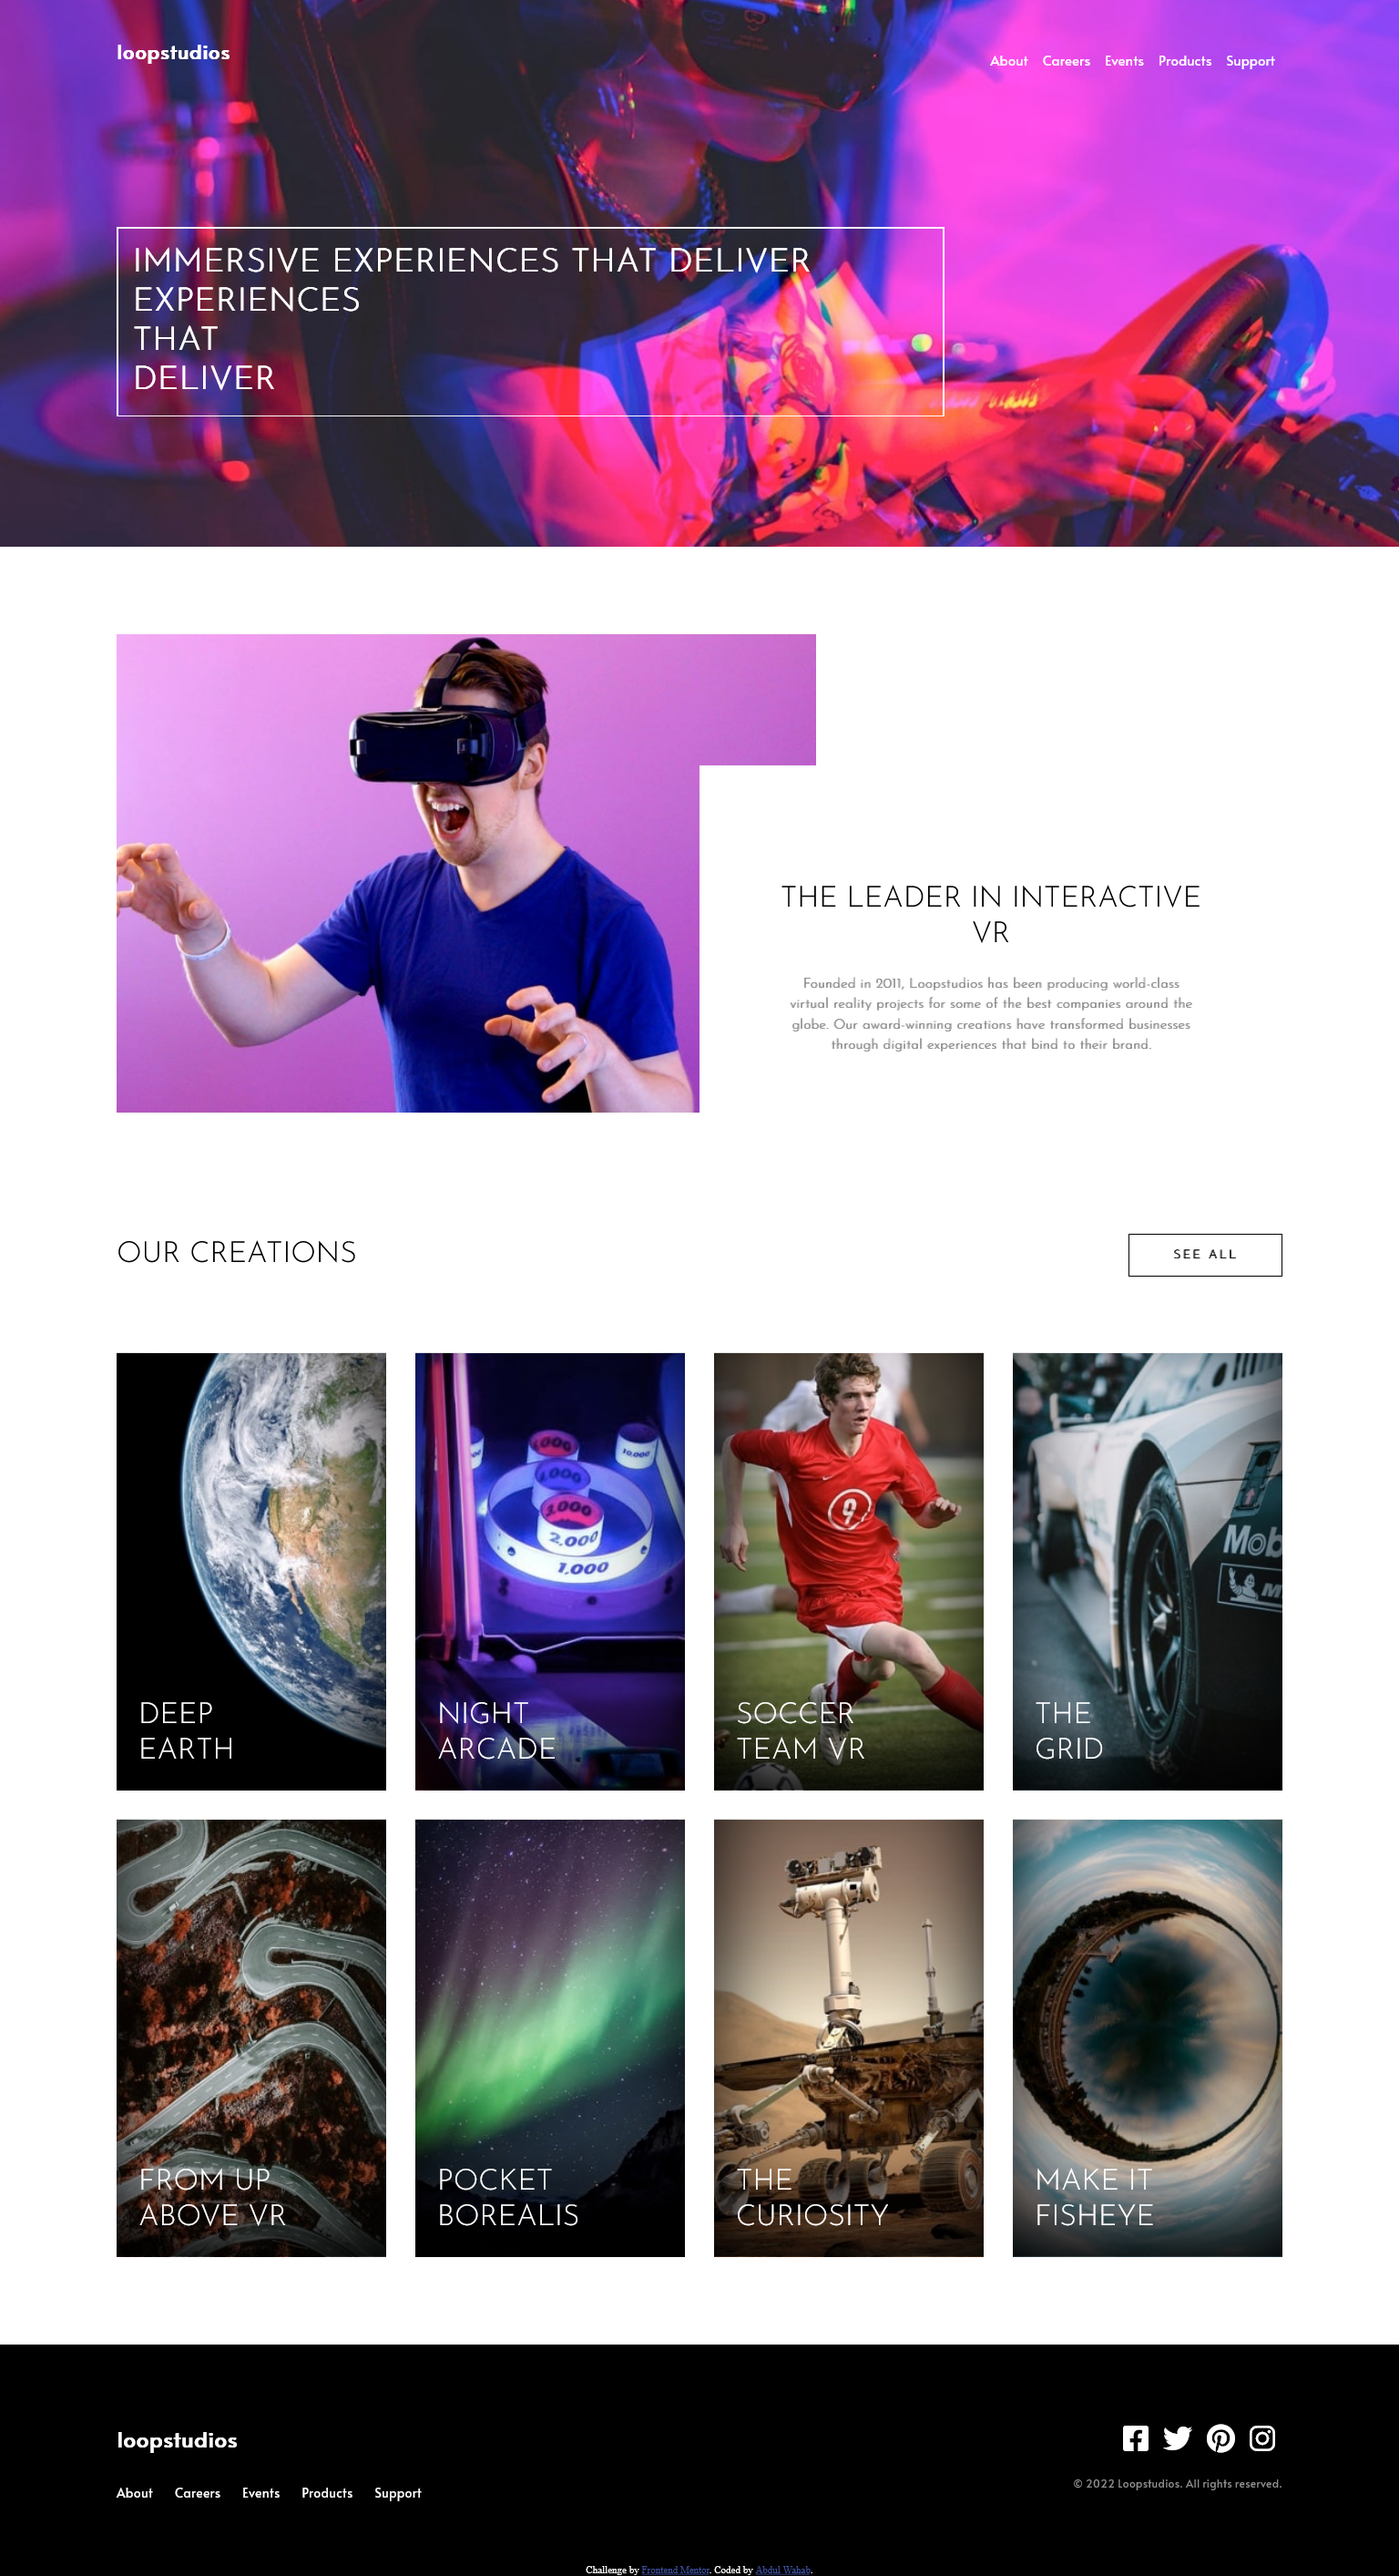
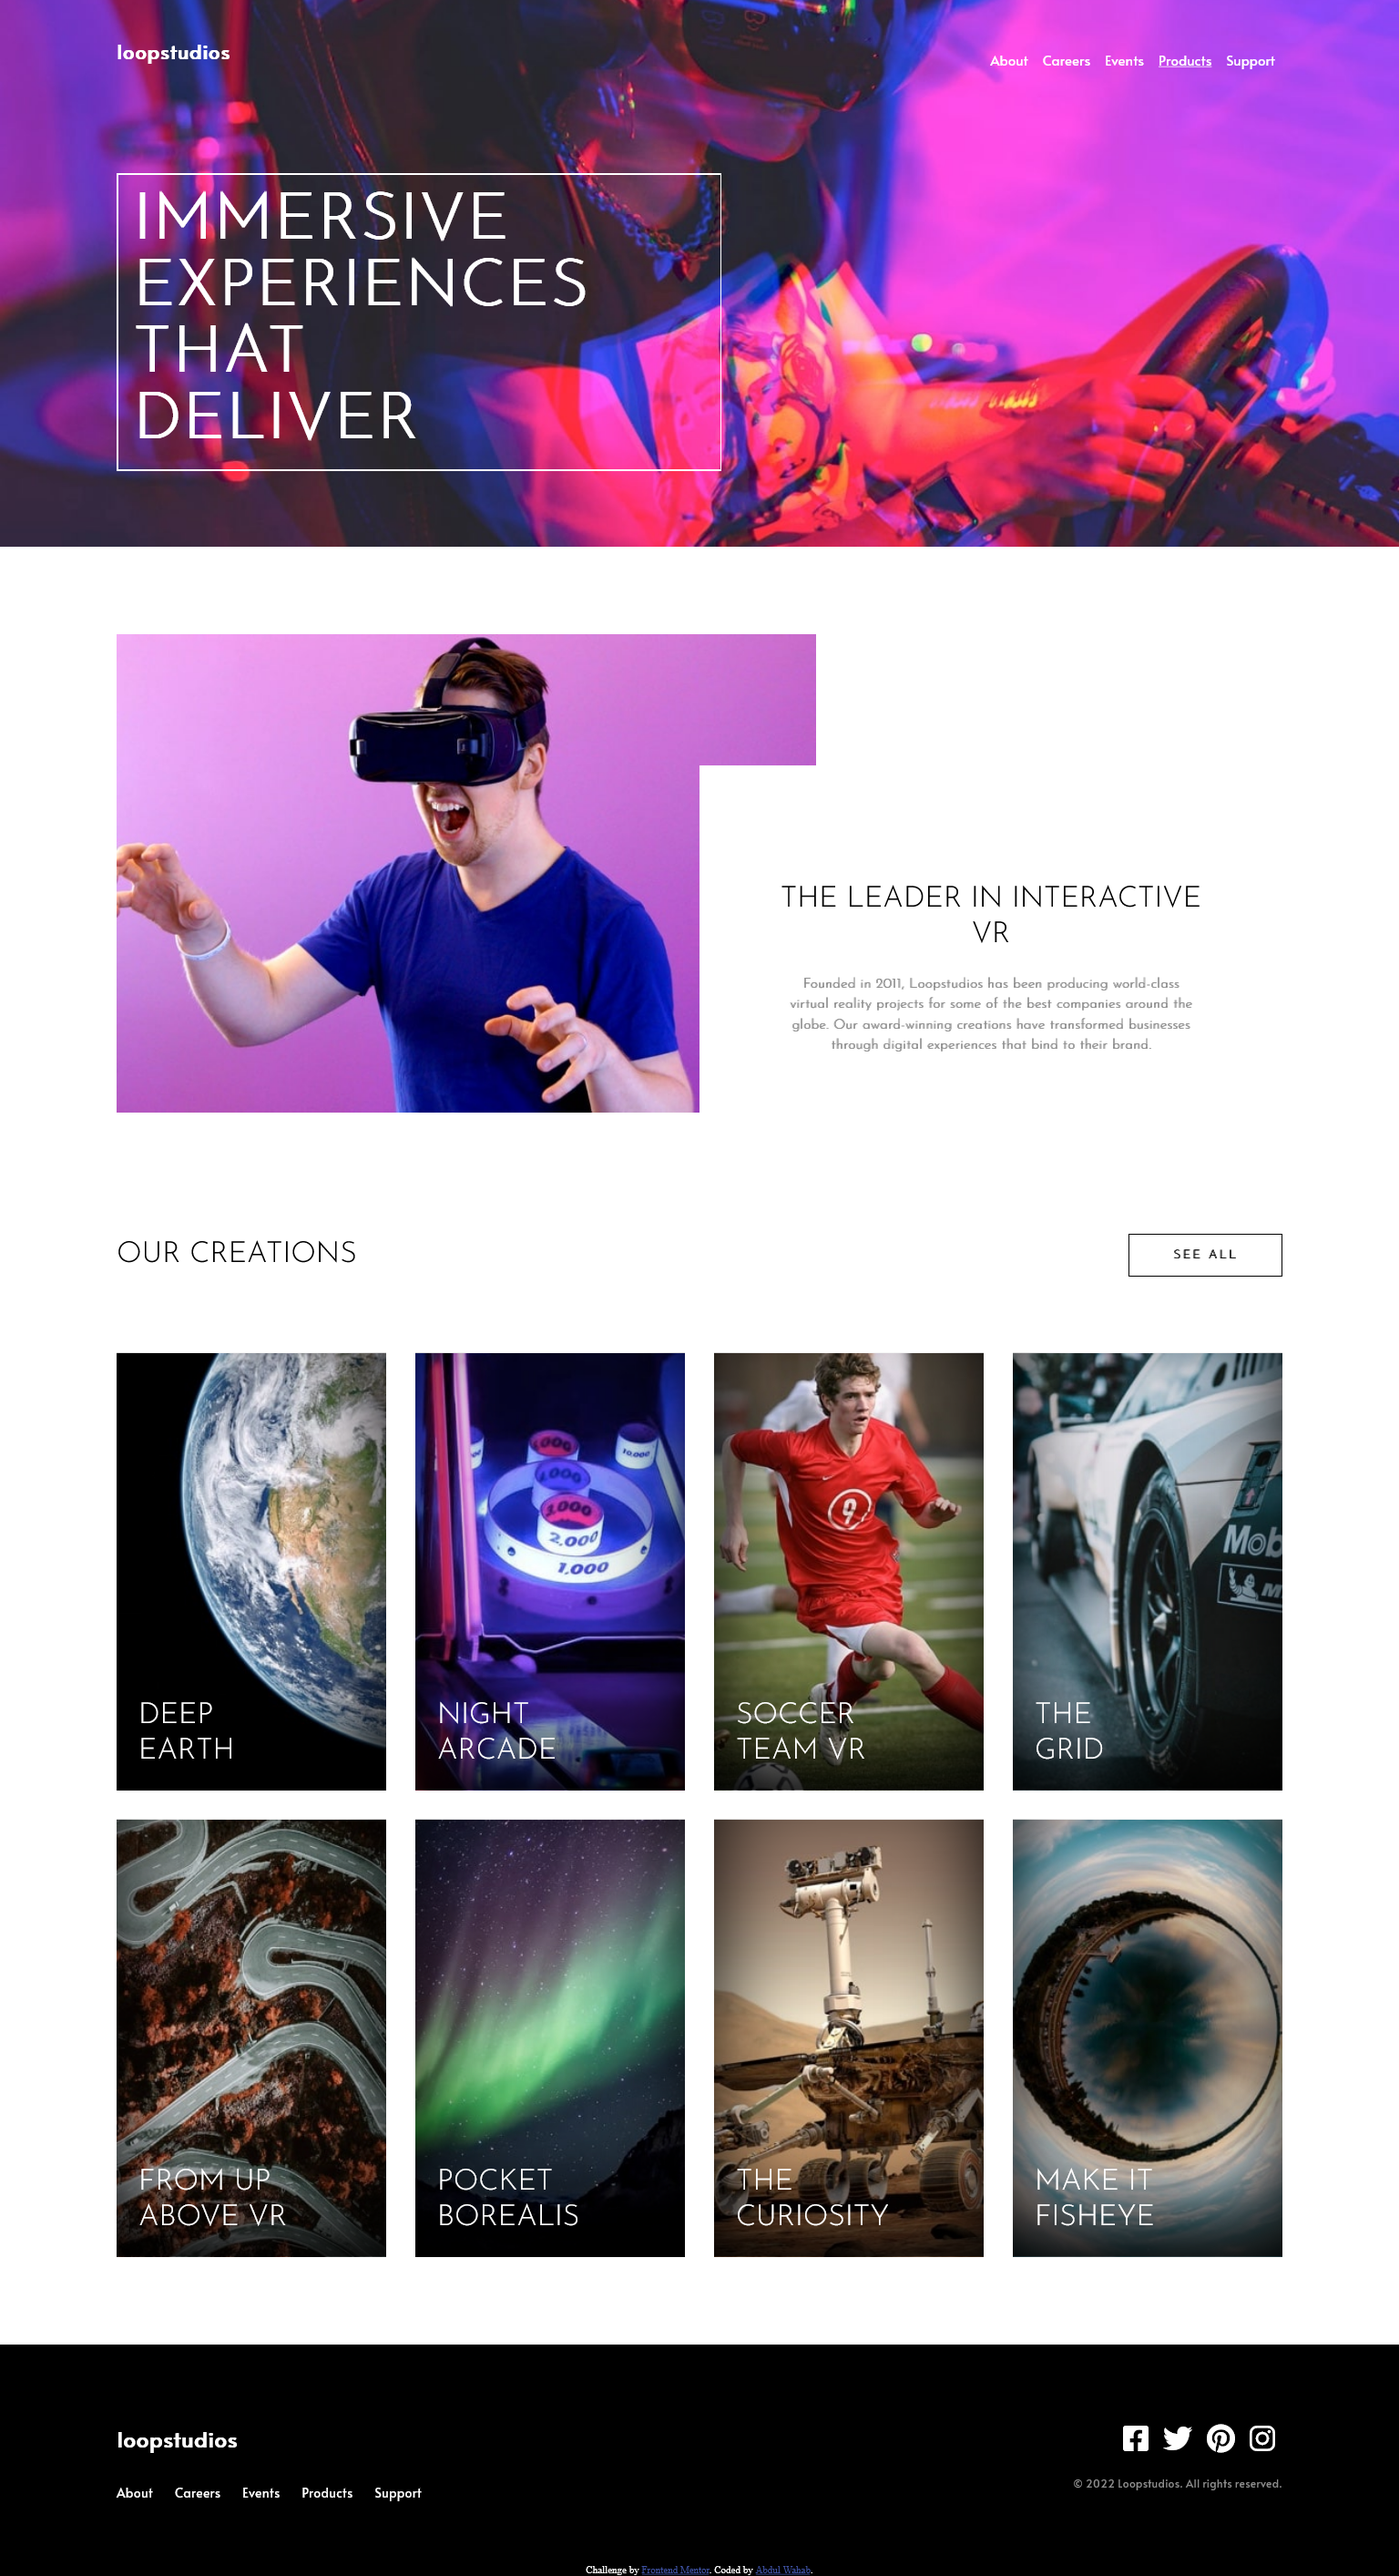
Fixed main title

Changed region(s): [[0.0938, 0.0623, 0.4375, 0.1868]]

diff --git a/index.html b/index.html
@@ -49,7 +49,7 @@
 
       <section class="section-intro">
         <div class="main-title">
-          <h2>Immersive experiences that deliver</h2>
+          <h2>Immersive</h2>
           <h2>experiences</h2>
           <h2>that</h2>
           <h2>deliver</h2>

diff --git a/style.css b/style.css
@@ -369,6 +369,9 @@ footer li {
     align-items: center;
   }
 
+  .main-title {
+    font-size: 3rem;
+  }
   /* about section */
 
   .section-about {
